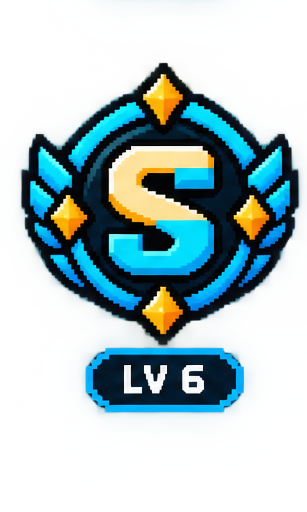
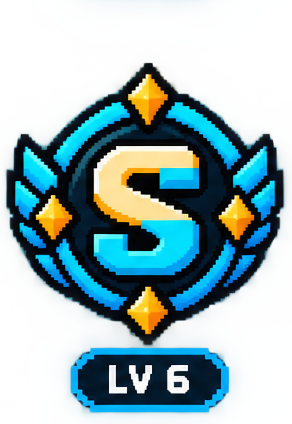
design: crop badges tightly, shrink popup square back down, tighten gallery gap
- Re-crop all 10 xp-badges/level-*.png to their actual content (per-image
  alpha-threshold bounding box), dropping the large transparent margin
  each sprite-sheet cell had — the badge itself now fills the frame
  instead of floating small in the middle of empty space.
- Revert the popup's next-badge square from 52px back to the standard
  26px icon-stack size — the tighter crop makes the badge legible there
  without needing a bigger square. Icon-stack alignment reverts to center
  now that all bubbles are the same size again.
- Tighten the gap between the gallery's XP bar and its badge row
  (negative margin on .side-card-milestones) — .side-card's 10px
  inter-child gap was too generous now that badges render at 88px.

diff --git a/sidequest/packages/app/src/overlay/style.css b/sidequest/packages/app/src/overlay/style.css
@@ -65,10 +65,7 @@ html, body {
   right: 10px;
   display: flex;
   flex-direction: column;
-  /* flex-end plutôt que center : le badge du prochain palier est deux fois plus large que les
-     autres bulles (52px vs 26px) — on les garde alignées sur le même bord droit plutôt que de
-     tout recentrer sur la largeur du plus gros élément. */
-  align-items: flex-end;
+  align-items: center;
   gap: 8px;
   -webkit-app-region: no-drag;
 }
@@ -118,15 +115,15 @@ html, body {
 
 /* Prochain badge de palier à débloquer sur ce side (voir shared/milestones.js) : l'image plafonne
    au dernier niveau illustré une fois le side maxé, et la bulle entière se masque dans ce cas (rien
-   de plus à viser) — même traitement que les autres bulles conditionnelles de la pile. */
+   de plus à viser) — même traitement que les autres bulles conditionnelles de la pile. Même
+   gabarit que les autres bulles (26px) : les PNG sources sont recadrés au plus près du médaillon
+   (voir packages/app/assets/xp-badges/) pour que le badge remplisse vraiment ce petit carré au
+   lieu de flotter au milieu d'une grande marge transparente.
+*/
 .next-badge {
-  /* Deux fois la taille des autres bulles de la pile (26px) : le badge doit rester lisible,
-     contrairement aux icônes/emoji des bulles voisines. */
-  width: 52px;
-  height: 52px;
   position: relative;
   overflow: hidden;
-  padding: 3px;
+  padding: 1px;
 }
 
 .next-badge-img {
@@ -137,10 +134,10 @@ html, body {
 
 .next-badge-progress {
   position: absolute;
-  left: 3px;
-  right: 3px;
-  bottom: 3px;
-  height: 5px;
+  left: 2px;
+  right: 2px;
+  bottom: 2px;
+  height: 3px;
   background: rgba(0, 0, 0, 0.4);
 }
 

diff --git a/sidequest/packages/app/src/dashboard/style.css b/sidequest/packages/app/src/dashboard/style.css
@@ -759,6 +759,9 @@ html, body {
   display: flex;
   gap: 8px;
   flex-wrap: wrap;
+  /* .side-card applique un gap de 10px entre tous ses enfants — trop vu la taille des badges
+     (88px) ; on le compense ici plutôt que de toucher au gap des autres blocs de la carte. */
+  margin-top: -6px;
 }
 
 .side-card-milestone-badge {
